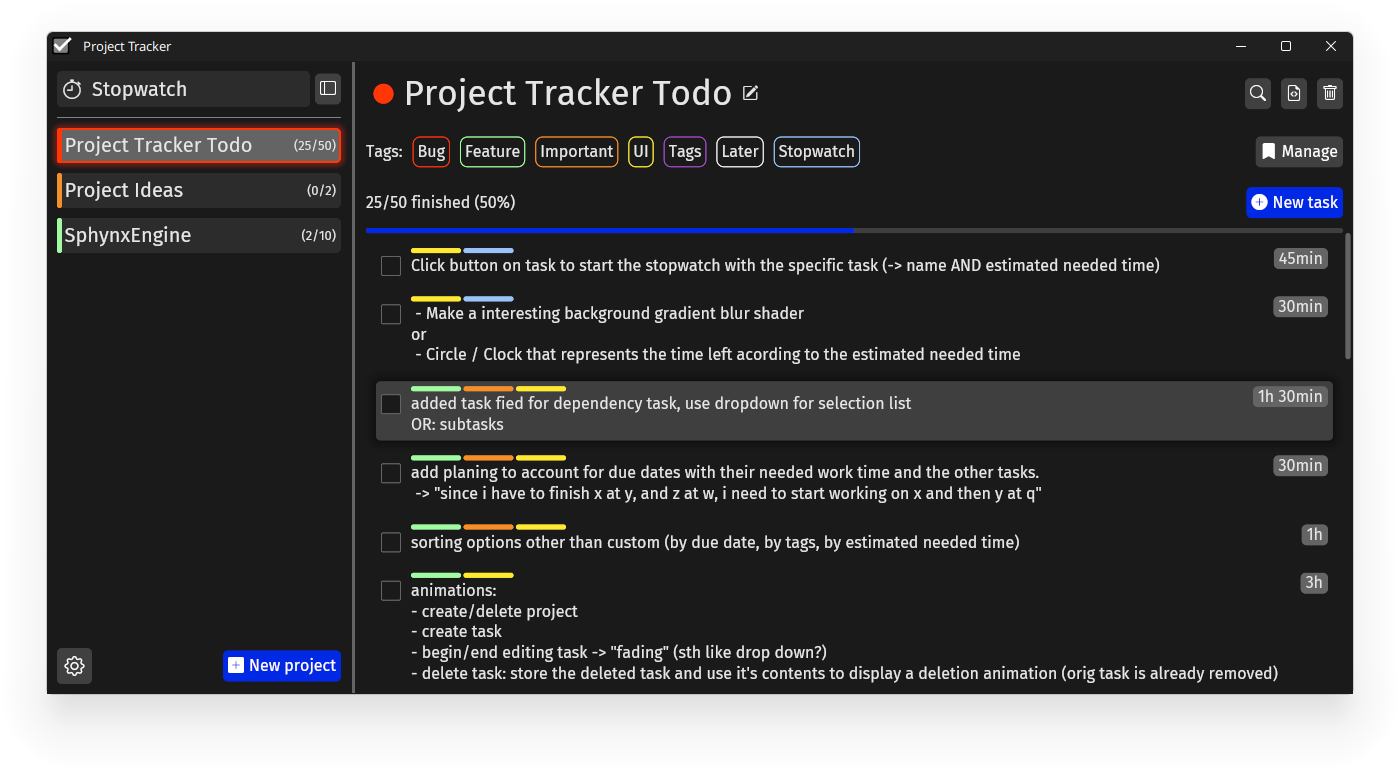
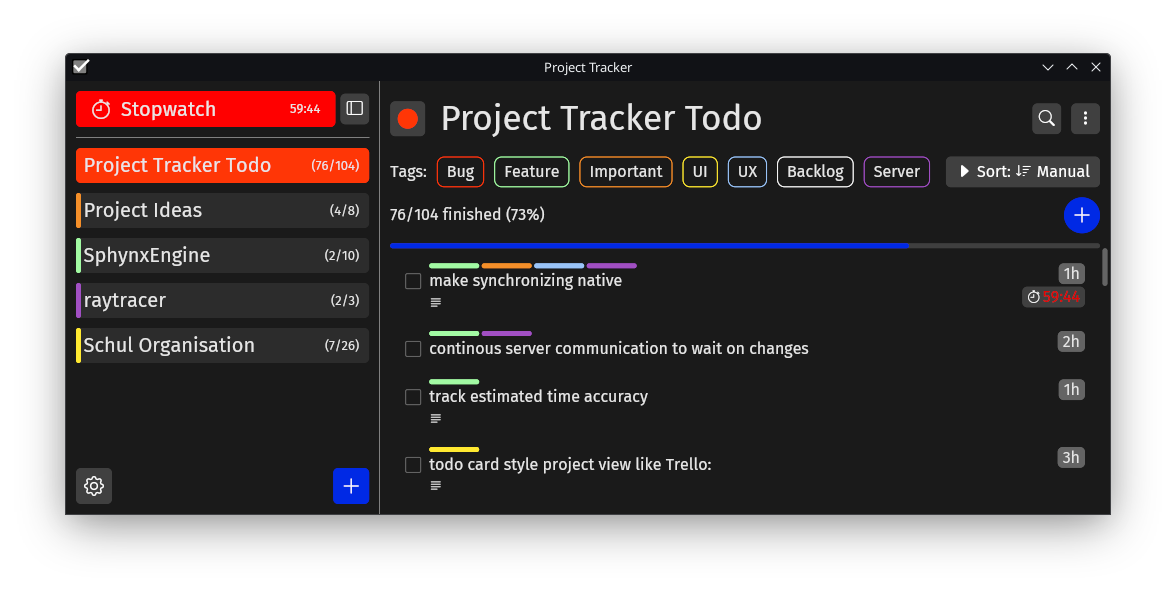
Updated screenshots

diff --git a/README.md b/README.md
@@ -3,6 +3,8 @@ personal project todo list tracker
 
 ![](Screenshot.png)
 
+![](Screenshot_Stopwatch.png)
+
 ## Platform support
 - Linux, Windows, Macos (untested, but should work)
 - Installation scripts are linux only for now
